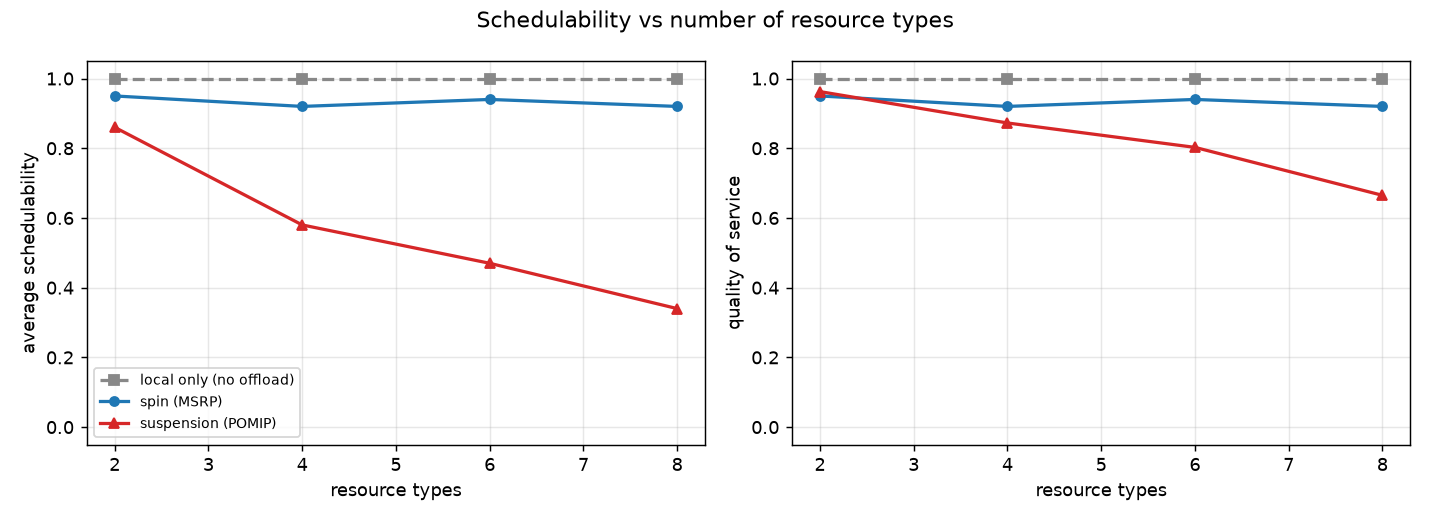
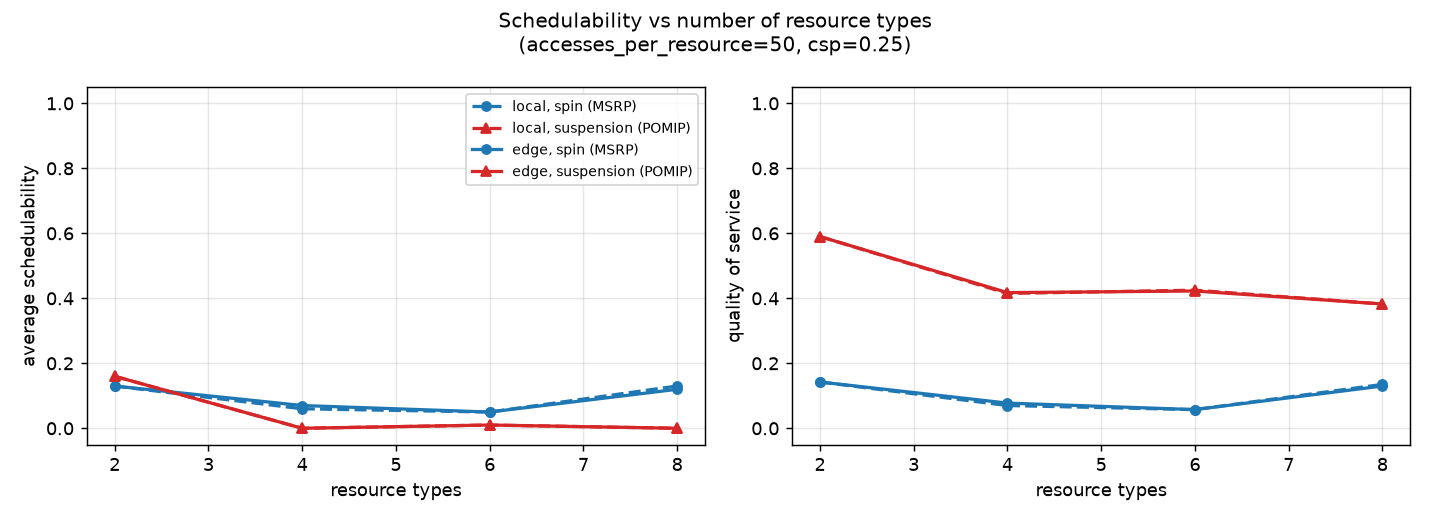
Charge communication only across servers, and compare all four cases
Three changes that together make the local-vs-edge and the protocol
comparison mean something.

1. Communication is now paid only when two nodes sit on processors of
   *different servers*, which is what the definition says. It used to be
   charged between any two different cores, so spreading inside the local
   machine looked as expensive as offloading and the mapper answered by
   putting everything on one core: 1.0 local cores used, and MSRP spin of
   exactly zero because nothing was ever remote. It now uses all 8, and
   the spin term finally does something.

   This was the root cause of the flat edge charts and of "local only"
   winning everywhere -- offloading had been the only way to distribute
   anything, so it was also the only source of blocking.

2. Both protocols now run on both platforms. With one protocol per
   platform there was no way to tell a platform effect from a protocol
   effect. Colour is the protocol, dashes are the platform, so each
   comparison can be read on its own.

   A scenario is skipped where its pin conflicts with the sweep: a
   local-only line cannot appear on a chart about edge servers.

3. Each sweep sets the conditions it is measured under. No single base
   puts all eight parameters in a range where they say anything: light
   enough for the load sweep to move is so light nothing else does. The
   conditions are printed on the chart and stored in the csv.

The per-edge cost was already right: U(0.5*avg, 1.5*avg) with avg =
[…]

diff --git a/experiments.py b/experiments.py
@@ -32,49 +32,94 @@ class Scenario:
         return base.copy_with(**{**self.overrides, **changes})
 
 
-# The four cases the definition asks to compare. The adaptive protocol is
-# not decided yet, so its slot is reserved but not run.
+# Both protocols are run on both platforms, so the two effects can be
+# told apart. With only one protocol on the local platform there is no
+# way to know whether a local-vs-edge gap comes from the platform or from
+# the protocol that happened to be paired with it.
+#
+# The adaptive protocol is not decided yet, so its slots are reserved but
+# not run.
+LOCAL_ONLY = {"num_edge_servers": 0}
+
+# Parameters that only mean something when there is an edge platform.
+EDGE_PARAMETERS = {"num_edge_servers", "cores_per_edge_server"}
+
 SCENARIOS = [
-    Scenario("local only (no offload)", Protocol.MSRP,
-             {"num_edge_servers": 0}),
-    Scenario("spin (MSRP)", Protocol.MSRP),
-    Scenario("suspension (POMIP)", Protocol.POMIP),
-    Scenario("adaptive", Protocol.ADAPTIVE, implemented=False),
+    Scenario("local, spin (MSRP)", Protocol.MSRP, LOCAL_ONLY),
+    Scenario("local, suspension (POMIP)", Protocol.POMIP, LOCAL_ONLY),
+    Scenario("edge, spin (MSRP)", Protocol.MSRP),
+    Scenario("edge, suspension (POMIP)", Protocol.POMIP),
+    Scenario("local, adaptive", Protocol.ADAPTIVE, LOCAL_ONLY, implemented=False),
+    Scenario("edge, adaptive", Protocol.ADAPTIVE, implemented=False),
 ]
 
 
 @dataclass
 class Sweep:
-    """One chart: a parameter, the values it takes, and how to apply it."""
+    """One chart: a parameter, the values it takes, and how to apply it.
+
+    ``base`` adjusts the *other* settings for this chart only. One set of
+    settings cannot put all eight parameters in the range where they
+    matter: light enough for the load sweep to show a curve is so light
+    that resource count changes nothing, and heavy enough for resource
+    count to bite leaves every load point already failing. So each chart
+    states the conditions it is measured under, and those conditions are
+    written into the csv beside the numbers.
+    """
 
     key: str                       # config field to vary
     label: str                     # axis label
     values: list
     title: str
+    base: dict = field(default_factory=dict)
 
     def apply(self, base: Config, scenario: Scenario, value) -> Config:
-        return scenario.config(base, **{self.key: value})
+        return scenario.config(base, **{**self.base, self.key: value})
+
+    @property
+    def conditions(self) -> str:
+        """The adjusted settings, for the chart subtitle and the csv."""
+        if not self.base:
+            return ""
+        return ", ".join(f"{k}={v}" for k, v in sorted(self.base.items()))
 
 
 # Every chart the project definition asks for.
 SWEEPS = [
     Sweep("u_norm", "U_norm", [0.1, 0.3, 0.5, 0.7, 1.0],
           "Schedulability vs normalized utilization"),
+
     Sweep("accesses_per_resource", "requests per resource",
           [10, 30, 50, 80, 150],
           "Schedulability vs requests per resource"),
+
+    # resource count only bites once there is enough locking to contend on
     Sweep("num_resources", "resource types", [2, 4, 6, 8],
-          "Schedulability vs number of resource types"),
+          "Schedulability vs number of resource types",
+          {"accesses_per_resource": 50, "csp": 0.25}),
+
     Sweep("csp", "CSP", [0.1, 0.25, 0.5, 0.75, 1.0],
           "Schedulability vs critical-section share"),
+
+    # same reason: with light locking every task count passes
     Sweep("num_tasks", "tasks", [4, 6, 8],
-          "Schedulability vs number of tasks"),
+          "Schedulability vs number of tasks",
+          {"accesses_per_resource": 50, "csp": 0.25}),
+
     Sweep("num_cores", "local cores m", [4, 8, 16, 32],
           "Schedulability vs local core count"),
+
+    # offloading only pays when communication is cheap enough to cross a
+    # machine boundary, and only matters when the local machine is loaded
     Sweep("num_edge_servers", "edge servers", [0, 1, 2, 3, 4],
-          "Schedulability vs number of edge servers"),
+          "Schedulability vs number of edge servers",
+          {"ccr": 0.05, "u_norm": 0.2,
+           "accesses_per_resource": 30, "csp": 0.15}),
+
     Sweep("cores_per_edge_server", "cores per edge server", [8, 16, 32, 64],
-          "Schedulability vs cores per edge server"),
+          "Schedulability vs cores per edge server",
+          {"ccr": 0.05, "u_norm": 0.3, "num_edge_servers": 1,
+           "accesses_per_resource": 30, "csp": 0.15}),
 ]
 
 
@@ -125,6 +170,19 @@ def run_sweep(base: Config, sweep: Sweep, count: int,
     for scenario in scenarios:
         if not scenario.implemented:
             continue
+
+        # A scenario that pins a parameter cannot appear on the chart that
+        # varies it: the sweep would overwrite the pin and the line would
+        # be labelled "local" while running on edge cores.
+        if sweep.key in scenario.overrides:
+            continue
+
+        # Nor can a scenario with no edge servers appear on a chart about
+        # the edge platform -- the parameter does nothing for it, and the
+        # line would be flat for a reason that has nothing to say.
+        if (sweep.key in EDGE_PARAMETERS
+                and scenario.overrides.get("num_edge_servers") == 0):
+            continue
         points = []
         for value in sweep.values:
             points.append(run_point(base, sweep, scenario, value, count))
@@ -147,12 +205,12 @@ def run_all(base: Config, count: int = 100,
 
 def to_csv(results: Dict[str, Dict]) -> str:
     """Every number behind the charts, so the report can quote them."""
-    rows = ["chart,parameter,value,scenario,schedulability,qos,samples"]
+    rows = ["chart,parameter,value,scenario,schedulability,qos,samples,conditions"]
     for title, block in results.items():
         sweep = block["sweep"]
         for name, points in block["lines"].items():
             for p in points:
                 rows.append(f'"{title}",{sweep.key},{p.value},"{name}",'
                             f"{p.schedulability:.4f},{p.quality_of_service:.4f},"
-                            f"{p.samples}")
+                            f'{p.samples},"{sweep.conditions}"')
     return "\n".join(rows)

diff --git a/mapping.py b/mapping.py
@@ -144,18 +144,34 @@ class Mapper:
         """
         return core.exec_time(node.wcet)
 
+    def pays_comm(self, core_a: int, core_b: int) -> bool:
+        """Is communication actually paid between these two cores?
+
+        The definition is explicit: the cost applies only when the two
+        nodes sit on processors **of two different servers**. So two cores
+        of the local machine talk for free, as do two cores of the same
+        edge server; only crossing a machine boundary costs anything.
+
+        Charging it between any two different cores -- which is what this
+        used to do -- makes spreading inside one machine look as expensive
+        as offloading, and the mapper answers by piling every node onto a
+        single core.
+        """
+        if core_a == core_b:
+            return False
+        return (self.taskset.core(core_a).server_id
+                != self.taskset.core(core_b).server_id)
+
     def comm_cost(self, task: Task, node: Node, core: Core) -> float:
         """What this placement would cost in communication.
 
-        Only edges coming from already-placed predecessors count -- the
-        successors have no core yet. An edge is free when both ends sit on
-        the same core, so this term is what pulls a chain of dependent
-        nodes together onto one core.
+        Only edges from already-placed predecessors count -- the
+        successors have no core yet.
         """
         total = 0.0
         for pred in task.graph.predecessors(node.id):
             pred_core = task.nodes[pred].core_id
-            if pred_core is not None and pred_core != core.id:
+            if pred_core is not None and self.pays_comm(pred_core, core.id):
                 total += task.comm_cost(pred, node.id)
         return total
 
@@ -202,7 +218,7 @@ class Mapper:
             if pred_core is None:
                 continue
             arrival = self.finish[(task.id, pred)]
-            if pred_core != core.id:
+            if self.pays_comm(pred_core, core.id):
                 arrival += task.comm_cost(pred, node.id)
             ready = max(ready, arrival)
 

diff --git a/charts.py b/charts.py
@@ -12,11 +12,15 @@ import matplotlib
 matplotlib.use("Agg")           # write files, never open a window
 import matplotlib.pyplot as plt
 
+# Colour says which protocol, line style says which platform, so the two
+# comparisons can be read off the same chart independently.
 STYLES = {
-    "local only (no offload)": dict(color="#888888", marker="s", linestyle="--"),
-    "spin (MSRP)":             dict(color="#1f77b4", marker="o"),
-    "suspension (POMIP)":      dict(color="#d62728", marker="^"),
-    "adaptive":                dict(color="#2ca02c", marker="d"),
+    "local, spin (MSRP)":       dict(color="#1f77b4", marker="o", linestyle="--"),
+    "local, suspension (POMIP)": dict(color="#d62728", marker="^", linestyle="--"),
+    "edge, spin (MSRP)":        dict(color="#1f77b4", marker="o"),
+    "edge, suspension (POMIP)": dict(color="#d62728", marker="^"),
+    "local, adaptive":          dict(color="#2ca02c", marker="d", linestyle="--"),
+    "edge, adaptive":           dict(color="#2ca02c", marker="d"),
 }
 
 
@@ -43,7 +47,10 @@ def draw_sweep(title: str, block: Dict, path: str) -> str:
     _panel(right, sweep, lines, "quality_of_service", "quality of service")
 
     left.legend(fontsize=8, loc="best")
-    figure.suptitle(title)
+    # the chart must say what it was measured under, or the reader cannot
+    # tell why two charts disagree about the same scenario
+    figure.suptitle(title + (f"\n({sweep.conditions})" if sweep.conditions else ""),
+                    fontsize=11)
     figure.tight_layout()
     figure.savefig(path, dpi=130)
     plt.close(figure)
